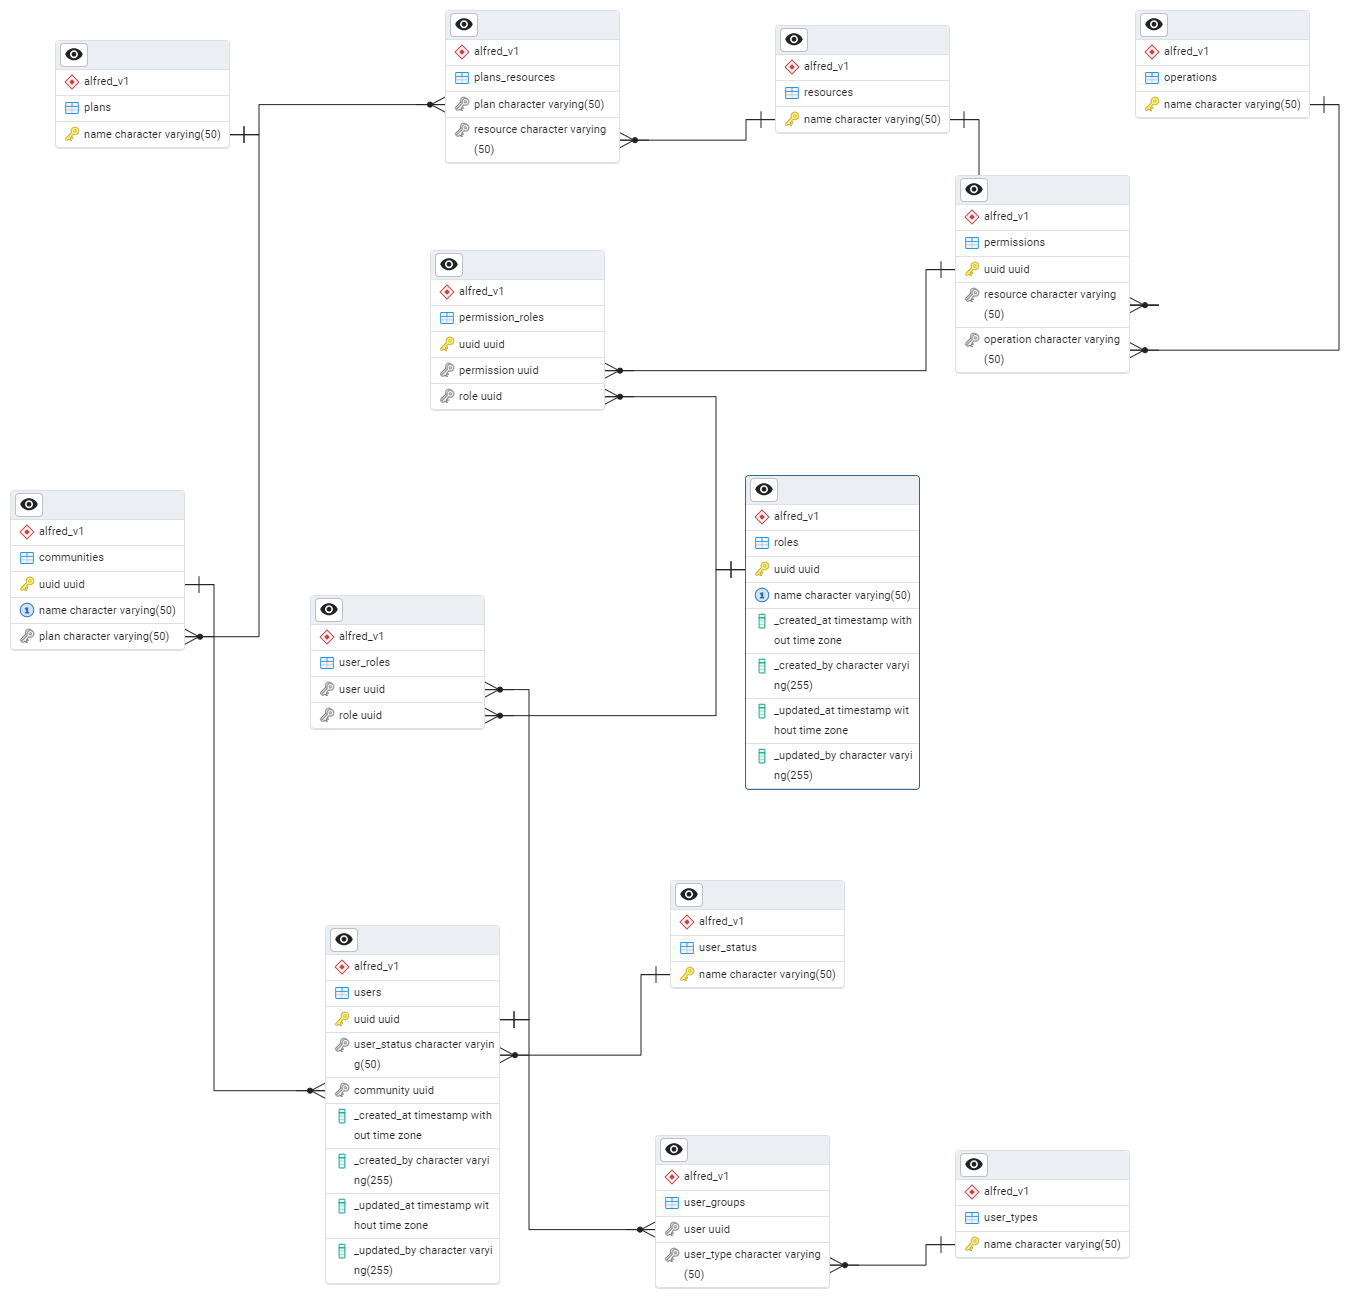
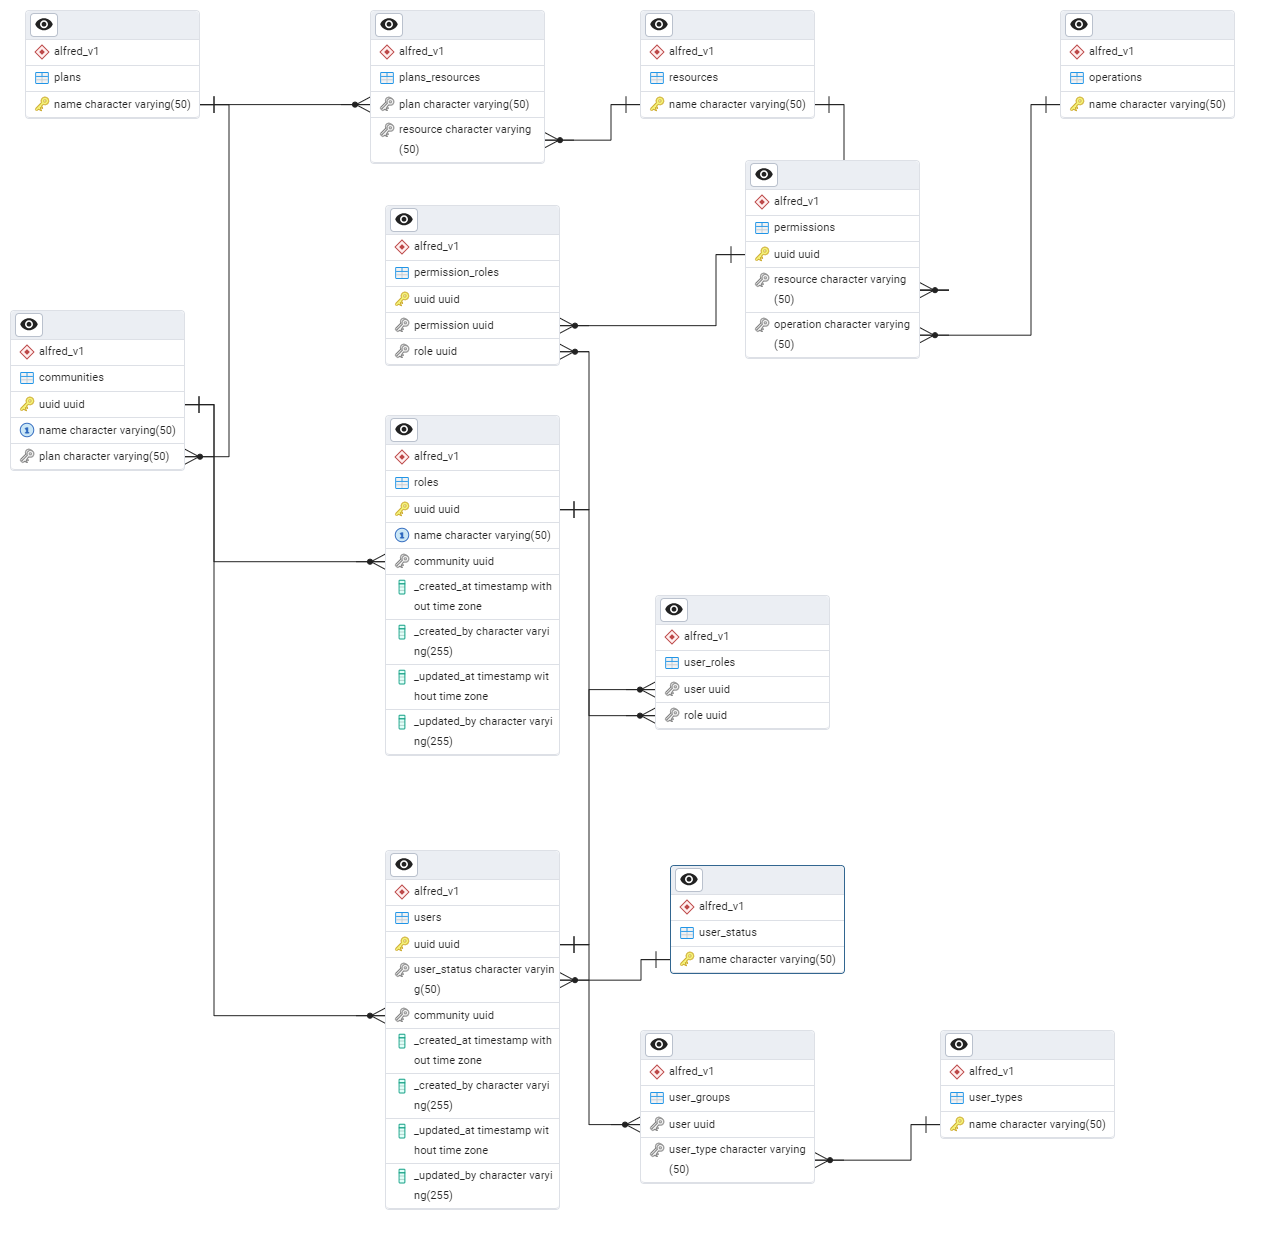
WIP: Security config

diff --git a/src/main/java/com/alfred/backoffice/modules/auth/infrastructure/external/firebase/filter/FirebaseAuthenticationFilter.java b/src/main/java/com/alfred/backoffice/modules/auth/infrastructure/external/firebase/filter/FirebaseAuthenticationFilter.java
@@ -14,6 +14,8 @@ import org.springframework.web.filter.OncePerRequestFilter;
 
 import java.io.IOException;
 import java.util.List;
+import java.util.stream.Collectors;
+import java.util.stream.Stream;
 
 public class FirebaseAuthenticationFilter extends OncePerRequestFilter {
 
@@ -37,14 +39,24 @@ public class FirebaseAuthenticationFilter extends OncePerRequestFilter {
             List<GrantedAuthority> fireBaseAuthorities = this.getAuthoritiesFromToken(token);
 
             // TODO: Add our permissions
-            List<String> permissions = List.of("RESOURCE_PERMISSION");
-            List<GrantedAuthority> alfredAuthorities = AuthorityUtils.createAuthorityList(permissions.toArray(new String[0]));
+            // It's necessary to add the prefix in order to use it with Spring Security hasRole
+            List<String> permissions = Stream.of("RESOURCE_PERMISSION")
+                    .map(role -> "ROLE_" + role)
+                    .toList();
 
-            alfredAuthorities.addAll(fireBaseAuthorities);
+            // TODO: Get types of user
+            List<String> userTypes = List.of("admin");
+
+            List<GrantedAuthority> alfredPermissionsAuthorities = AuthorityUtils.createAuthorityList(permissions.toArray(new String[0]));
+            List<GrantedAuthority> alfredUserTypesAuthorities = AuthorityUtils.createAuthorityList(userTypes.toArray(new String[0]));
+
+            alfredPermissionsAuthorities.addAll(fireBaseAuthorities);
+            alfredPermissionsAuthorities.addAll(alfredUserTypesAuthorities);
 
             SecurityContextHolder.getContext()
                     .setAuthentication(
-                            new FirebaseAuthenticationToken(idToken, token, alfredAuthorities));
+                            new FirebaseAuthenticationToken(idToken, token, alfredPermissionsAuthorities));
+
 
             SecurityContextHolder.getContext().getAuthentication().setAuthenticated(true);
 

diff --git a/src/main/java/com/alfred/backoffice/modules/auth/application/controller/GetAuthController.java b/src/main/java/com/alfred/backoffice/modules/auth/application/controller/GetAuthController.java
@@ -1,8 +1,11 @@
 package com.alfred.backoffice.modules.auth.application.controller;
 
+import com.alfred.backoffice.modules.auth.application.dto.response.OperationDTO;
 import com.alfred.backoffice.modules.auth.application.dto.response.ResourceDTO;
+import com.alfred.backoffice.modules.auth.domain.service.OperationService;
 import com.alfred.backoffice.modules.auth.domain.service.ResourceService;
 import lombok.RequiredArgsConstructor;
+import org.springframework.security.access.prepost.PreAuthorize;
 import org.springframework.web.bind.annotation.GetMapping;
 import org.springframework.web.bind.annotation.RequestMapping;
 import org.springframework.web.bind.annotation.RestController;
@@ -17,9 +20,16 @@ import java.util.List;
 public class GetAuthController {
 
     private final ResourceService resourceService;
+    private final OperationService operationService;
 
     @GetMapping(path = "/resources")
     List<ResourceDTO> getResources() {
         return resourceService.getAllResources();
+    }
+
+    @GetMapping(path = "/operations")
+    @PreAuthorize("hasAuthority('admin')")
+    List<OperationDTO> getOperations() {
+        return operationService.getAllOperations();
     }
 }

diff --git a/src/main/java/com/alfred/backoffice/modules/auth/infrastructure/configuration/SecurityConfig.java b/src/main/java/com/alfred/backoffice/modules/auth/infrastructure/configuration/SecurityConfig.java
@@ -5,6 +5,7 @@ import org.slf4j.Logger;
 import org.slf4j.LoggerFactory;
 import org.springframework.context.annotation.Bean;
 import org.springframework.context.annotation.Configuration;
+import org.springframework.http.HttpMethod;
 import org.springframework.security.config.annotation.method.configuration.EnableMethodSecurity;
 import org.springframework.security.config.annotation.web.builders.HttpSecurity;
 import org.springframework.security.config.annotation.web.configuration.EnableWebSecurity;
@@ -25,8 +26,8 @@ public class SecurityConfig {
         http
                 .cors(AbstractHttpConfigurer::disable)
                 .csrf(AbstractHttpConfigurer::disable)
-
-                .authorizeHttpRequests(authorizeRequests -> authorizeRequests
+                .authorizeHttpRequests(auth -> auth
+                        .requestMatchers("/api/v1/auth/signup").permitAll()
                         .anyRequest().authenticated()
                 )
                 .addFilterBefore(new FirebaseAuthenticationFilter(), BasicAuthenticationFilter.class);

diff --git a/src/main/java/com/alfred/backoffice/modules/auth/infrastructure/persistence/CommunityEntity.java b/src/main/java/com/alfred/backoffice/modules/auth/infrastructure/persistence/CommunityEntity.java
@@ -1,0 +1,33 @@
+package com.alfred.backoffice.modules.auth.infrastructure.persistence;
+
+import jakarta.persistence.*;
+import jakarta.validation.constraints.NotBlank;
+import jakarta.validation.constraints.Pattern;
+import jakarta.validation.constraints.Size;
+import lombok.AllArgsConstructor;
+import lombok.Data;
+import lombok.NoArgsConstructor;
+
+import java.util.UUID;
+
+@NoArgsConstructor
+@AllArgsConstructor
+@Data
+@Entity
+@Table(name = "communities")
+public class CommunityEntity {
+
+    @Id
+    @Column(name = "uuid", nullable = false, updatable = false)
+    private UUID uuid;
+
+    @Column(name = "name", length = 50, nullable = false, updatable = false)
+    @Size(max = 50, message = "Name must be at most 50 characters long.")
+    @NotBlank(message = "Name cannot be blank.")
+    @Pattern(regexp = "\\S.*\\S|\\S", message = "Name cannot contain only spaces.")
+    private String name;
+
+    @ManyToOne(optional = false)
+    @JoinColumn(name = "plan", referencedColumnName = "name", nullable = false)
+    private PlanEntity plan;
+}

diff --git a/src/main/java/com/alfred/backoffice/modules/auth/application/service/OperationServiceImpl.java b/src/main/java/com/alfred/backoffice/modules/auth/application/service/OperationServiceImpl.java
@@ -1,0 +1,25 @@
+package com.alfred.backoffice.modules.auth.application.service;
+
+import com.alfred.backoffice.modules.auth.application.dto.mapper.OperationMapper;
+import com.alfred.backoffice.modules.auth.application.dto.response.OperationDTO;
+import com.alfred.backoffice.modules.auth.domain.repository.OperationRepository;
+import com.alfred.backoffice.modules.auth.domain.service.OperationService;
+import com.alfred.backoffice.modules.auth.infrastructure.persistence.OperationEntity;
+import lombok.RequiredArgsConstructor;
+import org.springframework.stereotype.Service;
+
+import java.util.List;
+
+@Service
+@RequiredArgsConstructor
+public class OperationServiceImpl implements OperationService {
+
+    private final OperationRepository operationRepository;
+    private final OperationMapper operationMapper;
+
+    @Override
+    public List<OperationDTO> getAllOperations() {
+        List<OperationEntity> operationEntities = operationRepository.findAll();
+        return operationMapper.toDTOList(operationEntities);
+    }
+}

diff --git a/src/main/java/com/alfred/backoffice/modules/auth/infrastructure/persistence/PlanEntity.java b/src/main/java/com/alfred/backoffice/modules/auth/infrastructure/persistence/PlanEntity.java
@@ -1,0 +1,28 @@
+package com.alfred.backoffice.modules.auth.infrastructure.persistence;
+
+import jakarta.persistence.Column;
+import jakarta.persistence.Entity;
+import jakarta.persistence.Id;
+import jakarta.persistence.Table;
+import jakarta.validation.constraints.NotBlank;
+import jakarta.validation.constraints.Pattern;
+import jakarta.validation.constraints.Size;
+import lombok.AllArgsConstructor;
+import lombok.Data;
+import lombok.NoArgsConstructor;
+
+@NoArgsConstructor
+@AllArgsConstructor
+@Data
+@Entity
+@Table(name = "plans")
+public class PlanEntity {
+
+    @Id
+    @Column(name = "name", length = 50, nullable = false, updatable = false)
+    @Size(max = 50, message = "Name must be at most 50 characters long.")
+    @NotBlank(message = "Name cannot be blank.")
+    @Pattern(regexp = "\\S.*\\S|\\S", message = "Name cannot contain only spaces.")
+    private String name;
+
+}

diff --git a/src/main/java/com/alfred/backoffice/modules/auth/infrastructure/persistence/PlanResourceEntity.java b/src/main/java/com/alfred/backoffice/modules/auth/infrastructure/persistence/PlanResourceEntity.java
@@ -1,0 +1,28 @@
+package com.alfred.backoffice.modules.auth.infrastructure.persistence;
+
+import jakarta.persistence.*;
+import lombok.AllArgsConstructor;
+import lombok.Data;
+import lombok.NoArgsConstructor;
+
+@NoArgsConstructor
+@AllArgsConstructor
+@Data
+@Entity
+@Table(name = "plans_resources")
+public class PlanResourceEntity {
+
+    @EmbeddedId
+    private PlanResourceId id;
+
+    @ManyToOne(optional = false)
+    @MapsId("planName")
+    @JoinColumn(name = "plan", referencedColumnName = "name", nullable = false)
+    private PlanEntity plan;
+
+    @ManyToOne(optional = false)
+    @MapsId("resourceName")
+    @JoinColumn(name = "resource", referencedColumnName = "name", nullable = false)
+    private ResourceEntity resource;
+
+}

diff --git a/src/main/java/com/alfred/backoffice/modules/auth/application/dto/mapper/OperationMapper.java b/src/main/java/com/alfred/backoffice/modules/auth/application/dto/mapper/OperationMapper.java
@@ -1,0 +1,14 @@
+package com.alfred.backoffice.modules.auth.application.dto.mapper;
+
+import com.alfred.backoffice.modules.auth.application.dto.response.OperationDTO;
+import com.alfred.backoffice.modules.auth.infrastructure.persistence.OperationEntity;
+import com.alfred.backoffice.modules.auth.infrastructure.persistence.ResourceEntity;
+import org.mapstruct.Mapper;
+
+import java.util.List;
+
+@Mapper(componentModel = "spring")
+public interface OperationMapper {
+    OperationDTO toDTO(OperationEntity operationEntity);
+    List<OperationDTO> toDTOList(List<OperationEntity> operationEntityList);
+}

diff --git a/src/main/java/com/alfred/backoffice/modules/auth/infrastructure/persistence/PlanResourceId.java b/src/main/java/com/alfred/backoffice/modules/auth/infrastructure/persistence/PlanResourceId.java
@@ -1,0 +1,22 @@
+package com.alfred.backoffice.modules.auth.infrastructure.persistence;
+
+import jakarta.persistence.Column;
+import jakarta.persistence.Embeddable;
+import lombok.AllArgsConstructor;
+import lombok.Data;
+import lombok.NoArgsConstructor;
+
+import java.io.Serializable;
+
+@Embeddable
+@Data
+@NoArgsConstructor
+@AllArgsConstructor
+public class PlanResourceId implements Serializable {
+
+    @Column(name = "plan", nullable = false)
+    private String planName;
+
+    @Column(name = "resource", nullable = false)
+    private String resourceName;
+}

diff --git a/src/main/java/com/alfred/backoffice/modules/auth/infrastructure/persistence/UserEntity.java b/src/main/java/com/alfred/backoffice/modules/auth/infrastructure/persistence/UserEntity.java
@@ -26,6 +26,10 @@ public class UserEntity {
     @JoinColumn(name = "user_status", referencedColumnName = "name", nullable = false)
     private UserStatusEntity userStatus;
 
+    @ManyToOne(optional = false)
+    @JoinColumn(name = "community", referencedColumnName = "uuid", nullable = false)
+    private CommunityEntity community;
+
     @Column(name = "_created_at", nullable = false, updatable = false)
     private LocalDateTime createdAt;
 

diff --git a/src/main/java/com/alfred/backoffice/modules/auth/infrastructure/persistence/RoleEntity.java b/src/main/java/com/alfred/backoffice/modules/auth/infrastructure/persistence/RoleEntity.java
@@ -28,6 +28,10 @@ public class RoleEntity {
     @Pattern(regexp = "\\S.*\\S|\\S", message = "Name cannot contain only spaces.")
     private String name;
 
+    @ManyToOne(optional = false)
+    @JoinColumn(name = "community", referencedColumnName = "uuid", nullable = false)
+    private CommunityEntity community;
+
     @Column(name = "_created_at", nullable = false, updatable = false)
     private LocalDateTime createdAt;
 

diff --git a/src/main/java/com/alfred/backoffice/modules/auth/domain/repository/OperationRepository.java b/src/main/java/com/alfred/backoffice/modules/auth/domain/repository/OperationRepository.java
@@ -1,0 +1,7 @@
+package com.alfred.backoffice.modules.auth.domain.repository;
+
+import com.alfred.backoffice.modules.auth.infrastructure.persistence.OperationEntity;
+import org.springframework.data.jpa.repository.JpaRepository;
+
+public interface OperationRepository extends JpaRepository<OperationEntity, String> {
+}
